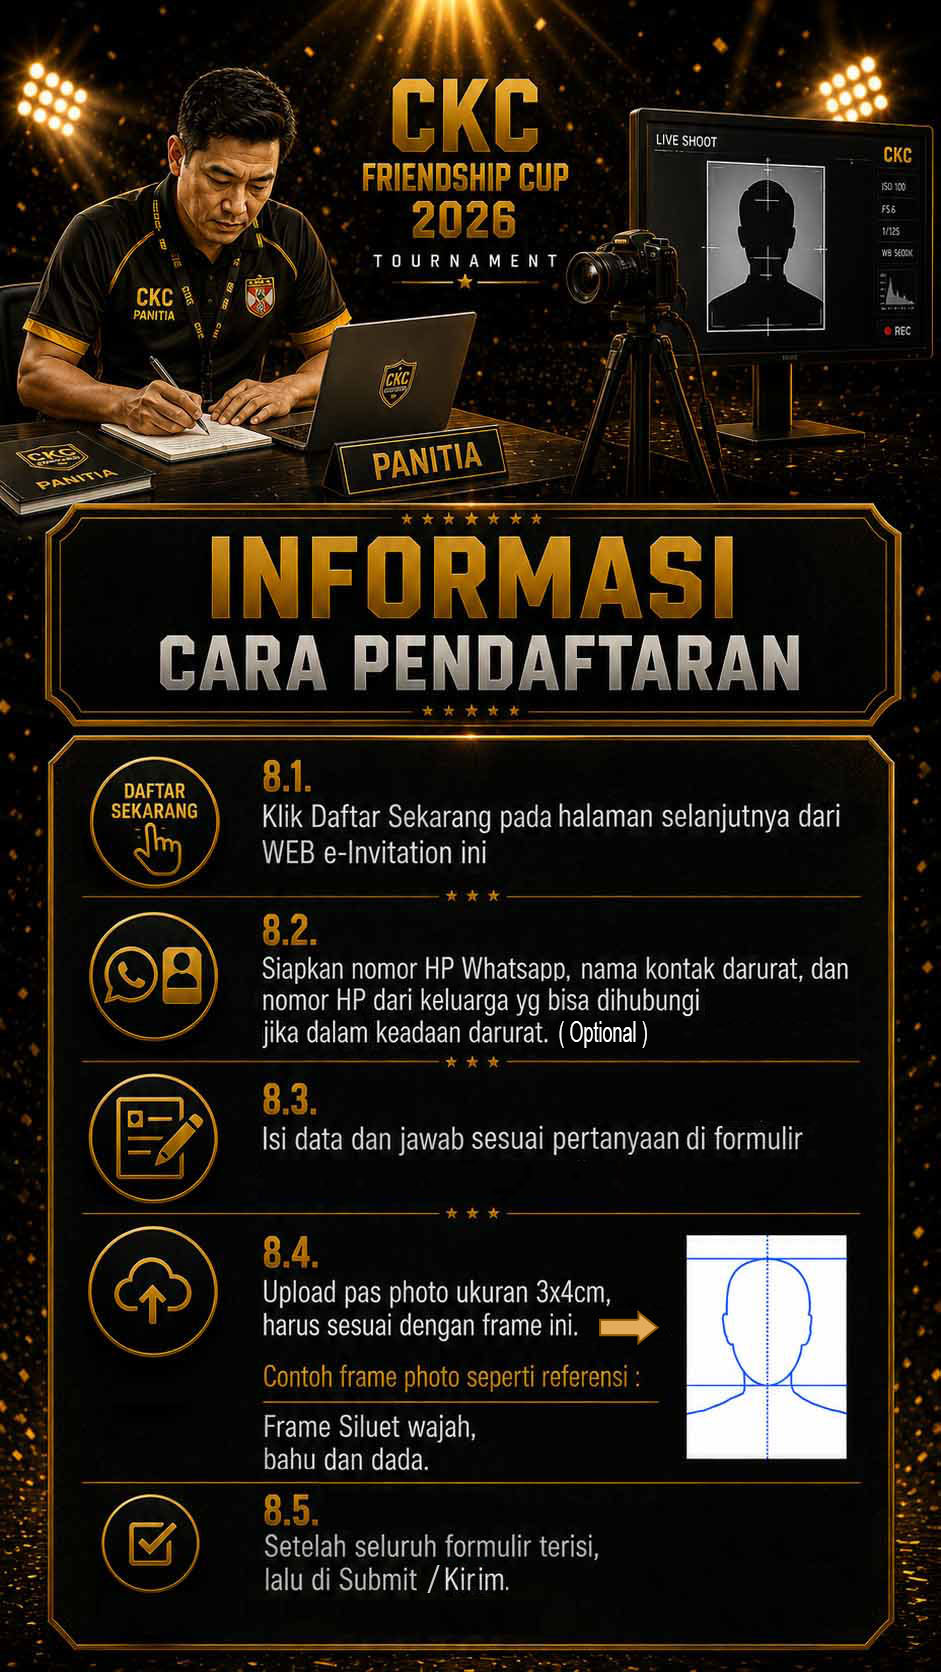
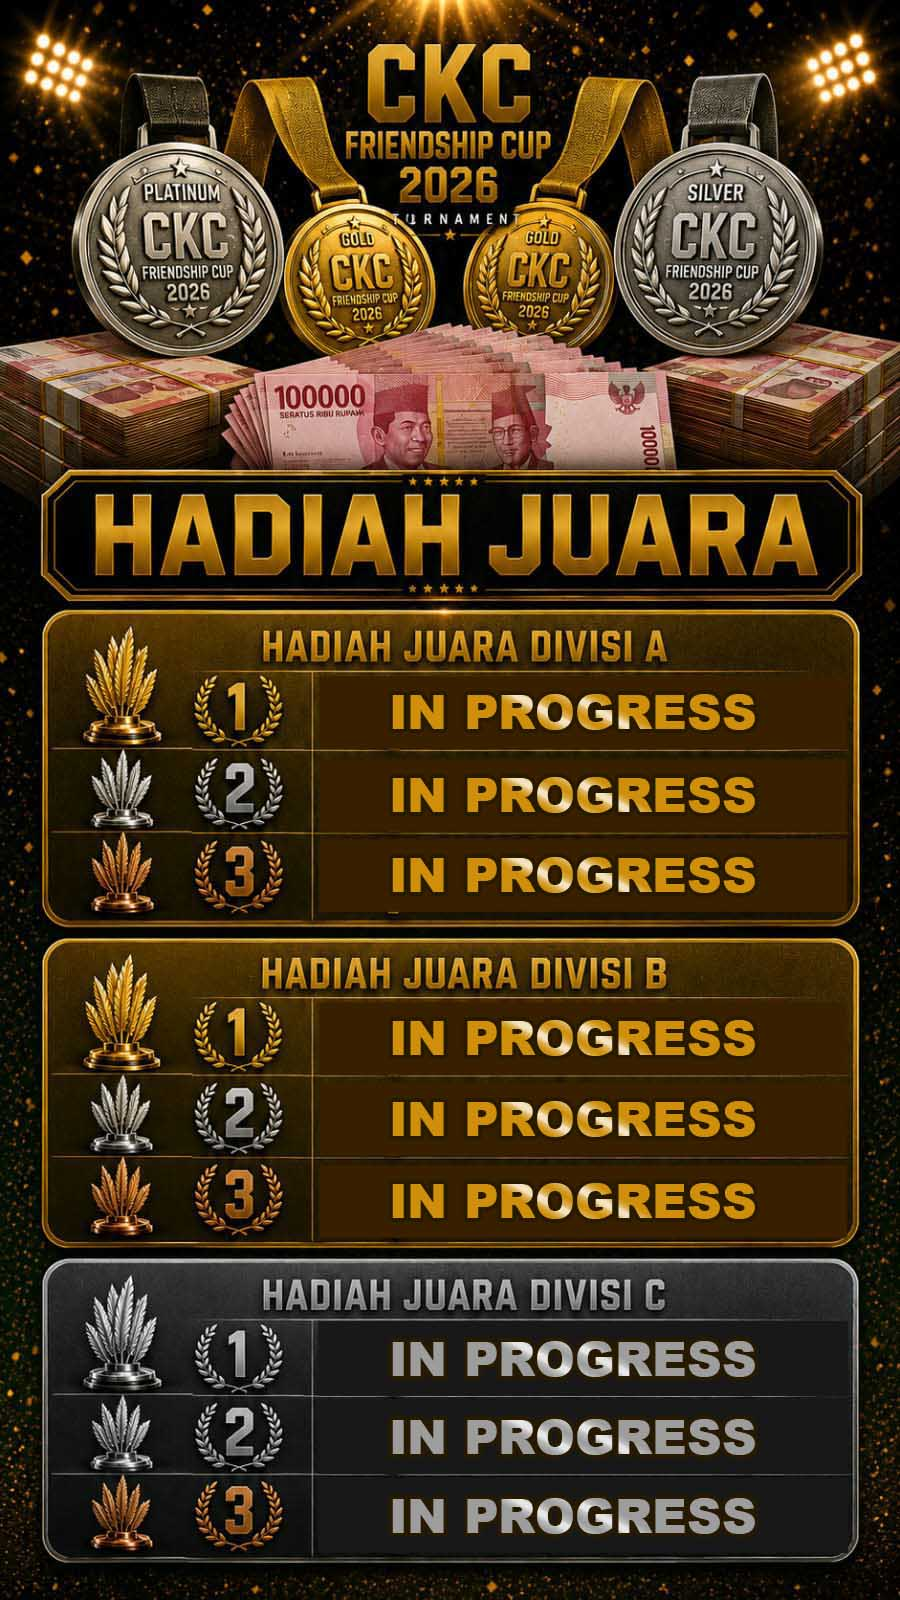
Update guide and sponsor images

diff --git a/index.html b/index.html
@@ -446,13 +446,13 @@ href="https://cdn.jsdelivr.net/npm/swiper@11/swiper-bundle.min.css">
             <span class="guide-title">Bagan Pertandingan</span>
         </button>
 
-        <!--<button type="button" class="guide-menu-button" data-guide="7">
-            <span class="guide-number">07</span>
-            <span class="guide-title">Hadiah Juara Per-Kategori</span>
-        </button>-->
-
         <button type="button" class="guide-menu-button" data-guide="7">
             <span class="guide-number">07</span>
+            <span class="guide-title">Hadiah Juara Per-Kategori</span>
+        </button>
+
+        <button type="button" class="guide-menu-button" data-guide="8">
+            <span class="guide-number">08</span>
             <span class="guide-title">Tata Cara Pendaftaran</span>
         </button>
 
@@ -1097,9 +1097,9 @@ href="https://cdn.jsdelivr.net/npm/swiper@11/swiper-bundle.min.css">
                 <img src="images/sponsor/official12.png">
             </div>
 
-            <div class="officialsponsor-card">
+            <!--<div class="officialsponsor-card">
                 <img src="images/sponsor/official13.png">
-            </div>
+            </div>-->
 
         </div>
 
